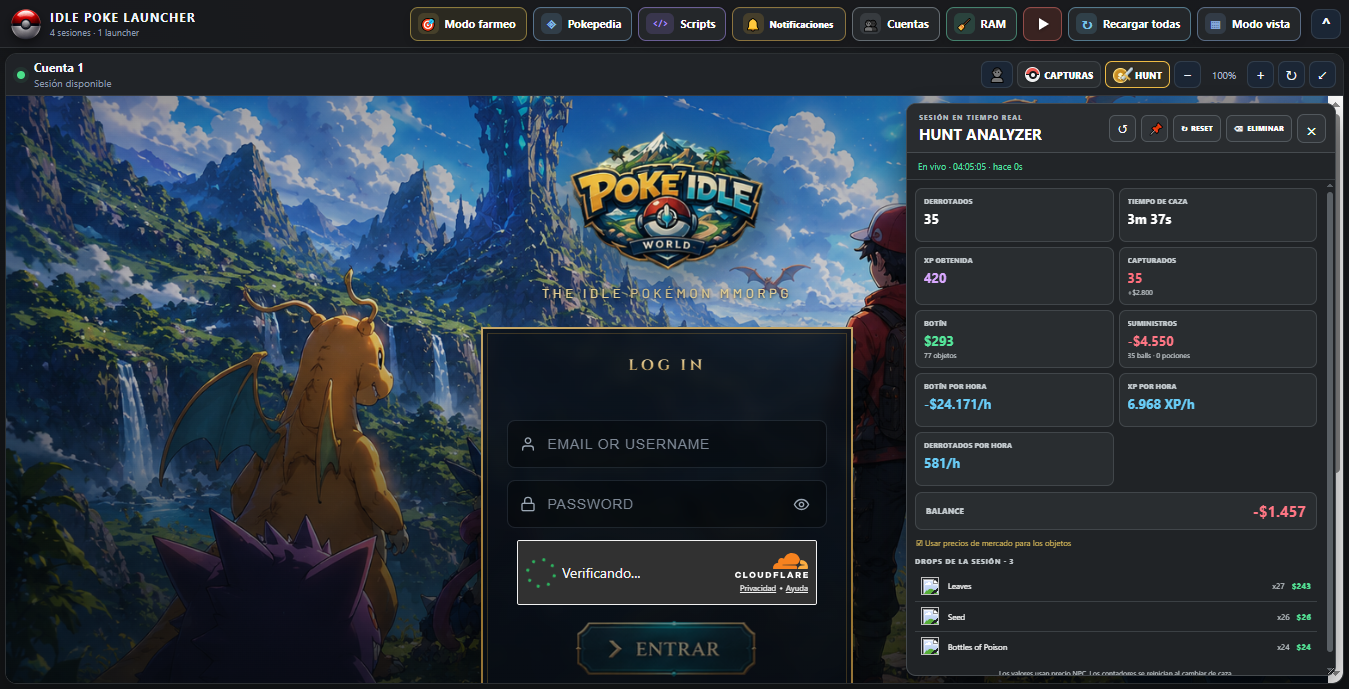
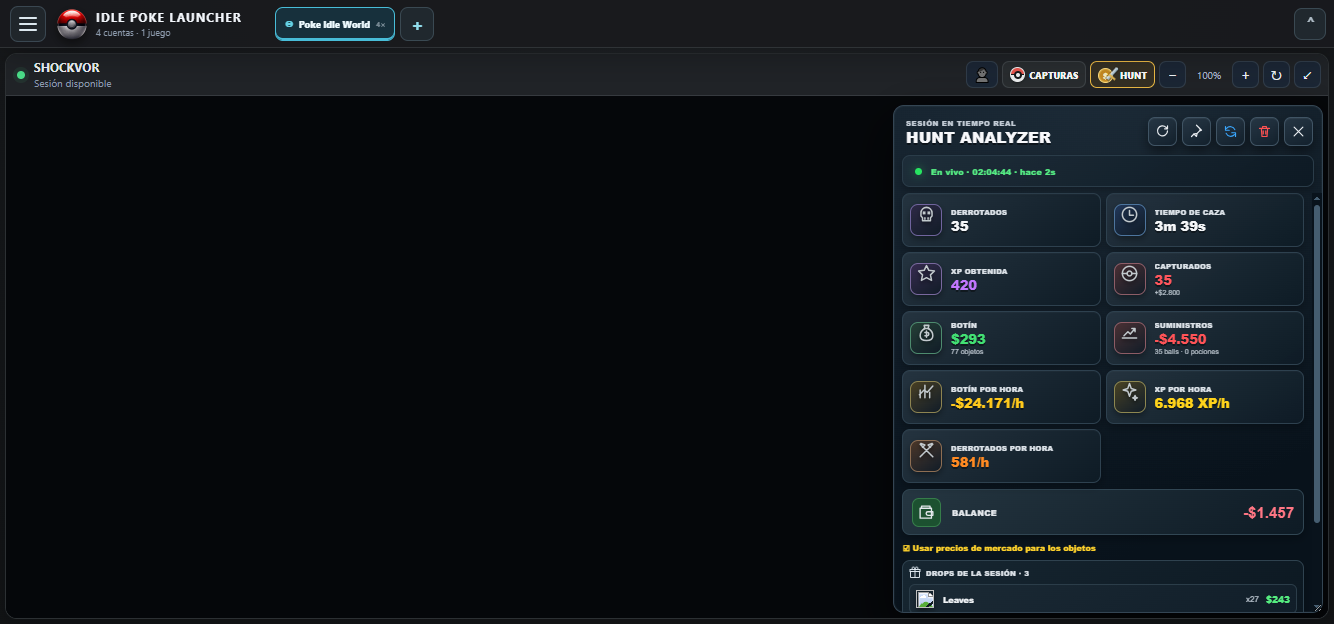
Publicar PokeGrid Launcher v0.22.11 con menú flotante

diff --git a/src/styles.css b/src/styles.css
@@ -182,21 +182,24 @@ input:focus-visible {
 
 .global-actions {
   width: 238px;
-  padding: 12px 10px 14px;
+  max-height: calc(100vh - 68px);
+  padding: 10px;
   position: fixed;
   z-index: 210;
-  top: 48px;
-  bottom: 0;
-  left: 0;
+  top: 56px;
+  bottom: auto;
+  left: 8px;
   display: flex;
   align-items: stretch;
   flex-direction: column;
-  gap: 7px;
+  gap: 6px;
   overflow-x: visible;
   overflow-y: auto;
-  border-right: 1px solid rgba(112, 139, 160, .25);
-  background: linear-gradient(180deg, rgba(25, 29, 33, .995), rgba(14, 17, 20, .995));
-  box-shadow: 18px 0 42px rgba(0, 0, 0, .38);
+  border: 1px solid rgba(112, 139, 160, .3);
+  border-radius: 14px;
+  background: rgba(24, 29, 34, .97);
+  box-shadow: 0 18px 46px rgba(0, 0, 0, .48), inset 0 1px rgba(255, 255, 255, .035);
+  backdrop-filter: blur(14px);
   transform: translateX(calc(-100% - 20px));
   visibility: hidden;
   pointer-events: none;
@@ -211,7 +214,7 @@ input:focus-visible {
   transition: transform 190ms ease, visibility 0s;
 }
 .sidebar-heading {
-  min-height: 48px;
+  min-height: 42px;
   margin: -2px 1px 3px;
   padding: 6px 9px 9px;
   display: flex;
@@ -221,8 +224,8 @@ input:focus-visible {
 }
 .sidebar-heading span { color: #f0f4f8; font-size: 10px; font-weight: 900; letter-spacing: .12em; }
 .sidebar-heading small { margin-top: 4px; color: #788795; font-size: 8px; }
-.button-update { border-color:#33546a !important;background:linear-gradient(145deg,#142532,#0e1921) !important;color:#9ee8ff !important; }
-.button-update:hover:not(:disabled) { border-color:#52b9d5 !important;color:#e7fbff !important;background:linear-gradient(145deg,#183344,#10212b) !important; }
+.button-update { --toolbar-accent:#55d7f1 !important;color:#d8f8ff !important; }
+.button-update:hover:not(:disabled) { border-color:var(--toolbar-accent) !important;color:#fff !important; }
 .button-update:disabled { cursor:wait;opacity:.78; }
 .update-launcher-copy { min-width:0; display:flex; align-items:flex-start; justify-content:center; flex-direction:column; gap:2px; line-height:1; }
 .update-launcher-version { color:#6fcbe5; font-size:8px; font-weight:800; letter-spacing:.06em; line-height:1; }
@@ -234,27 +237,27 @@ input:focus-visible {
   --toolbar-accent: #83909a;
   width: 100%;
   min-width: 0;
-  min-height: 40px;
-  height: 40px;
+  min-height: 36px;
+  height: 36px;
   padding: 0 11px 0 8px;
   display: inline-flex;
   align-items: center;
   justify-content: flex-start;
   gap: 9px;
-  border: 1px solid color-mix(in srgb, var(--toolbar-accent) 46%, #35393d);
+  border: 1px solid color-mix(in srgb, var(--toolbar-accent) 38%, #343b40);
   border-radius: 8px;
-  background: #24272a;
+  background: color-mix(in srgb, var(--toolbar-accent) 9%, #20262b);
   color: #fff;
-  box-shadow: inset 0 1px 0 rgba(255,255,255,.035), 0 4px 12px rgba(0,0,0,.16);
+  box-shadow: inset 3px 0 var(--toolbar-accent);
 }
 .global-actions > .button:hover,
 .global-actions > .notification-button:hover,
 .global-actions > .view-mode-control > .button:hover,
 .global-actions > .notification-button[aria-expanded="true"] {
   border-color: var(--toolbar-accent);
-  background: #2d3033;
+  background: color-mix(in srgb, var(--toolbar-accent) 17%, #232a30);
   color: #fff;
-  transform: translateY(-1px);
+  transform: translateX(2px);
 }
 .global-actions .top-action-icon {
   width: 21px;
@@ -262,24 +265,23 @@ input:focus-visible {
   display: inline-grid;
   place-items: center;
   flex: 0 0 21px;
-  border-radius: 6px;
-  background: color-mix(in srgb, var(--toolbar-accent) 18%, #202326);
+  border-radius: 5px;
+  background: color-mix(in srgb, var(--toolbar-accent) 20%, #1b2227);
   color: var(--toolbar-accent);
   font-size: 12px;
   line-height: 1;
 }
 .global-actions .top-action-icon.is-code { width: auto; min-width: 28px; padding: 0 4px; font: 800 9px/1 monospace; }
-.global-actions > .button-farm { --toolbar-accent: #f3c63d; background: #2b2920; color: #fff; }
-.global-actions > .button-pokepedia { --toolbar-accent: #7fb8e8; }
-.global-actions > .button-scripts { --toolbar-accent: #aa8cff; }
-.global-actions > .button-statistics { --toolbar-accent: #55d8d0; }
-.global-actions > .notification-button { --toolbar-accent: #f0ba42; }
-.global-actions > .button-accounts { --toolbar-accent: #9da9b2; }
-.global-actions > .memory-cleanup-button { --toolbar-accent: #58d7a8; }
-.global-actions > .button-launch-all { --toolbar-accent: #ff6258; width: 100%; min-width: 0; padding: 0 11px 0 8px; background: #392321; }
-.global-actions > .button-launch-all:hover { background: #492725; }
-.global-actions > .button-reload { --toolbar-accent: #79c4e8; }
-.global-actions > .view-mode-control > .button-view-mode { --toolbar-accent: #84a6d8; }
+.global-actions > .button-farm { --toolbar-accent: #42d88f; color: #fff; }
+.global-actions > .button-pokepedia { --toolbar-accent: #69aef4; }
+.global-actions > .button-scripts { --toolbar-accent: #a485f4; }
+.global-actions > .button-statistics { --toolbar-accent: #45cbc5; }
+.global-actions > .notification-button { --toolbar-accent: #efbd4e; }
+.global-actions > .button-accounts { --toolbar-accent: #aab5bf; }
+.global-actions > .memory-cleanup-button { --toolbar-accent: #4fd0a2; }
+.global-actions > .button-launch-all { --toolbar-accent: #ff6b62; width: 100%; min-width: 0; padding: 0 11px 0 8px; }
+.global-actions > .button-reload { --toolbar-accent: #57b9e2; }
+.global-actions > .view-mode-control > .button-view-mode { --toolbar-accent: #7e96df; }
 .global-actions .notification-bell { font-size: 12px; }
 
 .notification-button,
@@ -726,7 +728,7 @@ input:focus-visible {
   transition: margin-left 190ms ease;
 }
 
-body.sidebar-open .instance-workspace.is-active { margin-left: 238px; }
+body.sidebar-open .instance-workspace.is-active { margin-left: 0; }
 
 .instance-workspace {
   margin-left: 0;
@@ -4058,8 +4060,8 @@ body.has-scripts-modal .webview-host webview { display: none !important; visibil
   .global-actions > .button,
   .global-actions > .notification-button,
   .global-actions > .view-mode-control > .button {
-    min-height: 40px;
-    height: 40px;
+    min-height: 38px;
+    height: 38px;
     padding: 0 11px 0 8px;
     font-size: 10px;
   }

diff --git a/tests/launcher-visual-smoke.js b/tests/launcher-visual-smoke.js
@@ -94,11 +94,13 @@ app.whenReady().then(async () => {
     const sidebarState = await window.webContents.executeJavaScript(`(async () => {
       document.querySelector('#globalActions').style.transition = 'none';
       document.querySelector('#grid').style.transition = 'none';
+      const gridLeftBefore = Math.round(document.querySelector('#grid').getBoundingClientRect().left);
       document.querySelector('#topbarToggle').click();
       await new Promise((resolve) => requestAnimationFrame(() => requestAnimationFrame(resolve)));
       const sidebar = document.querySelector('#globalActions');
       const sidebarRect = sidebar.getBoundingClientRect();
       const gridRect = document.querySelector('#grid').getBoundingClientRect();
+      const actionButtons = [...sidebar.querySelectorAll(':scope > button, :scope > .view-mode-control > button')];
       document.querySelector('#viewModeButton').click();
       await new Promise((resolve) => requestAnimationFrame(() => requestAnimationFrame(resolve)));
       const viewMenu = document.querySelector('#viewModeMenu');
@@ -107,10 +109,19 @@ app.whenReady().then(async () => {
         expanded: document.querySelector('#topbarToggle').getAttribute('aria-expanded'),
         visible: getComputedStyle(sidebar).visibility,
         direction: getComputedStyle(sidebar).flexDirection,
+        position: getComputedStyle(sidebar).position,
         width: Math.round(sidebarRect.width),
         left: Math.round(sidebarRect.left),
+        top: Math.round(sidebarRect.top),
+        bottomGap: Math.round(innerHeight - sidebarRect.bottom),
+        borderRadius: parseFloat(getComputedStyle(sidebar).borderRadius),
+        backgroundImage: getComputedStyle(sidebar).backgroundImage,
+        gridLeftBefore,
         gridLeft: Math.round(gridRect.left),
+        overlaysGrid: sidebarRect.right > gridRect.left,
         actionCount: sidebar.querySelectorAll(':scope > button, :scope > .view-mode-control').length,
+        uniqueAccentCount: new Set(actionButtons.map(button => getComputedStyle(button).getPropertyValue('--toolbar-accent').trim())).size,
+        flatButtonCount: actionButtons.filter(button => getComputedStyle(button).backgroundImage === 'none').length,
         persisted: localStorage.getItem('launcherSidebarOpen'),
         viewMenu: {
           parent: viewMenu.parentElement.tagName,
@@ -131,8 +142,12 @@ app.whenReady().then(async () => {
       }};
     })()`);
     if (sidebarState.open.expanded !== 'true' || sidebarState.open.visible !== 'visible' ||
-        sidebarState.open.direction !== 'column' || sidebarState.open.width < 220 || sidebarState.open.left !== 0 ||
-        sidebarState.open.gridLeft < 230 || sidebarState.open.actionCount !== 11 || sidebarState.open.persisted !== '1' ||
+        sidebarState.open.direction !== 'column' || sidebarState.open.position !== 'fixed' ||
+        sidebarState.open.width < 220 || sidebarState.open.left < 6 || sidebarState.open.top < 54 ||
+        sidebarState.open.bottomGap < 6 || sidebarState.open.borderRadius < 12 || sidebarState.open.backgroundImage !== 'none' ||
+        sidebarState.open.gridLeft !== sidebarState.open.gridLeftBefore || !sidebarState.open.overlaysGrid ||
+        sidebarState.open.actionCount !== 11 || sidebarState.open.uniqueAccentCount !== 11 ||
+        sidebarState.open.flatButtonCount !== 11 || sidebarState.open.persisted !== '1' ||
         sidebarState.open.viewMenu.parent !== 'BODY' || sidebarState.open.viewMenu.position !== 'fixed' ||
         !sidebarState.open.viewMenu.visible || sidebarState.open.viewMenu.left <= sidebarState.open.viewMenu.sidebarRight ||
         !sidebarState.open.viewMenu.insideViewport ||

diff --git a/README.md b/README.md
@@ -1,6 +1,6 @@
 # IDLE POKE LAUNCHER
 
-Launcher de escritorio para Windows diseñado para jugar **Poke Idle World con varias cuentas independientes** y mantener herramientas de seguimiento, administración y navegación en una sola aplicación.
+Launcher portátil para Windows diseñado para administrar **Poke Idle World y otros juegos de navegador** con sesiones independientes, herramientas de seguimiento en tiempo real, userscripts multijuego y actualización automática.
 
 [![Última versión](https://img.shields.io/github/v/release/DiegoT34/PokeGrid-Launcher?display_name=tag&label=versi%C3%B3n)](https://github.com/DiegoT34/PokeGrid-Launcher/releases/latest)
 [![Descargas](https://img.shields.io/github/downloads/DiegoT34/PokeGrid-Launcher/total?label=descargas)](https://github.com/DiegoT34/PokeGrid-Launcher/releases)
@@ -17,27 +17,27 @@ Launcher de escritorio para Windows diseñado para jugar **Poke Idle World con v
 
 No necesita instalador. Las cuentas, sesiones y preferencias se guardan en el perfil de usuario de Windows, fuera de la carpeta del programa.
 
-![Cuadrícula principal del launcher](docs/assets/launcher-grid.png)
+![Cuadrícula principal con menú flotante](docs/assets/launcher-grid.png)
 
 ## Funciones principales
 
-- Cuatro sesiones independientes de Poke Idle World en cuadrícula, con cookies y almacenamiento separados.
-- Instancias adicionales para abrir otros juegos web sin cerrar Poke Idle World.
-- Elección de una a seis pantallas por instancia adicional.
-- Barra superior ocultable y menú lateral desplegable.
-- Zoom y expansión individual de cada cuenta.
-- Inicio, recarga escalonada y recuperación de conexiones por cuenta.
+- Cuatro sesiones independientes de Poke Idle World en cuadrícula, con cookies, almacenamiento y conexión separados.
+- Pestañas de instancias para abrir otros juegos web sin cerrar las sesiones existentes.
+- De una a seis pantallas independientes por cada instancia adicional, con restauración automática al iniciar.
+- Menú lateral flotante con botones flat diferenciados; se superpone sin reducir ni desplazar las ventanas del juego.
+- Barra superior ocultable, selector de paneles visibles, zoom y expansión individual por cuenta.
+- Inicio conjunto, recarga escalonada, diagnóstico y recuperación de conexiones por pantalla.
 - Credenciales cifradas con la protección de Windows mediante Electron `safeStorage`.
-- Hunt Analyzer individual, Capture Log y estadísticas generales multicuentas.
-- Comparación de hunts con clasificación por rendimiento.
-- Modo farmeo con selección asistida de objetivos.
+- Datos de perfil en tiempo real, Hunt Analyzer individual, Capture Log y estadísticas generales multicuentas.
+- Comparación de hunts ordenada por rendimiento, con colores independientes para cada cuenta.
+- Modo farmeo con filtros por nombre, región, tipo, nivel, combate y variante shiny.
 - Pokédex en ventana independiente.
 - Centro de userscripts multijuego con editor, permisos, instalación por URL, importación y arrastrar/soltar.
-- Detección automática por `@match`/`@include`: cada script se aplica y actualiza en las pantallas compatibles de su instancia, mientras Poke Idle World conserva la selección individual por cuenta.
+- Detección automática por `@match`/`@include`: cada script se instala, actualiza y recarga en las pantallas compatibles de su juego.
 - Etiquetas de juego inferidas por dominio o declaradas con la directiva opcional `@game`.
-- Shop online de scripts con información, instalación, actualización, desinstalación y verificación SHA-256.
+- Shop online con catálogo actualizado desde GitHub, información, instalación, actualización, desinstalación y verificación SHA-256.
 - Limpieza segura de cachés visuales sin cerrar sesiones ni forzar el recolector de Chromium.
-- Actualizador integrado que guarda el paquete verificado en Descargas, confirma el arranque de la versión nueva y restaura la anterior si algo falla.
+- Actualizador integrado que guarda ZIP y firma en Descargas, reintenta el arranque, confirma la ventana nueva y restaura la versión anterior si algo falla.
 
 ## Hunt Analyzer
 
@@ -63,10 +63,11 @@ El menú lateral incluye **Actualizaciones**. Al pulsarlo:
 
 1. Consulta la Release estable más reciente de este repositorio.
 2. Compara la versión instalada.
-3. Descarga el ZIP cuando existe una versión superior.
-4. Verifica su archivo `.sha256` antes de ejecutarlo.
-5. Cierra el launcher, sustituye la versión anterior y abre la nueva.
-6. Si la nueva versión no puede iniciar, restaura automáticamente la anterior.
+3. Descarga el ZIP cuando existe una versión superior y lo conserva en **Descargas**.
+4. Verifica su archivo `.sha256` antes de descomprimirlo.
+5. Cierra el launcher y abre la nueva versión en una carpeta portátil independiente.
+6. Confirma que la nueva ventana está preparada antes de retirar la versión anterior.
+7. Si el arranque no se confirma, reintenta y restaura automáticamente la versión anterior.
 
 Consulta [cómo funcionan las actualizaciones](docs/ACTUALIZACIONES.md), la [guía completa de funciones](docs/FUNCIONES.md) y [cómo publicar scripts en la Shop](docs/SCRIPT_SHOP.md).
 
@@ -102,3 +103,7 @@ Consulta [SECURITY.md](SECURITY.md) para informar problemas de seguridad.
 ## Licencia
 
 Código del launcher publicado bajo la licencia [MIT](LICENSE).
+
+## Créditos
+
+Creado y mantenido por **[DiegoT34](https://github.com/DiegoT34)**, autor y responsable principal de PokeGrid Launcher.
